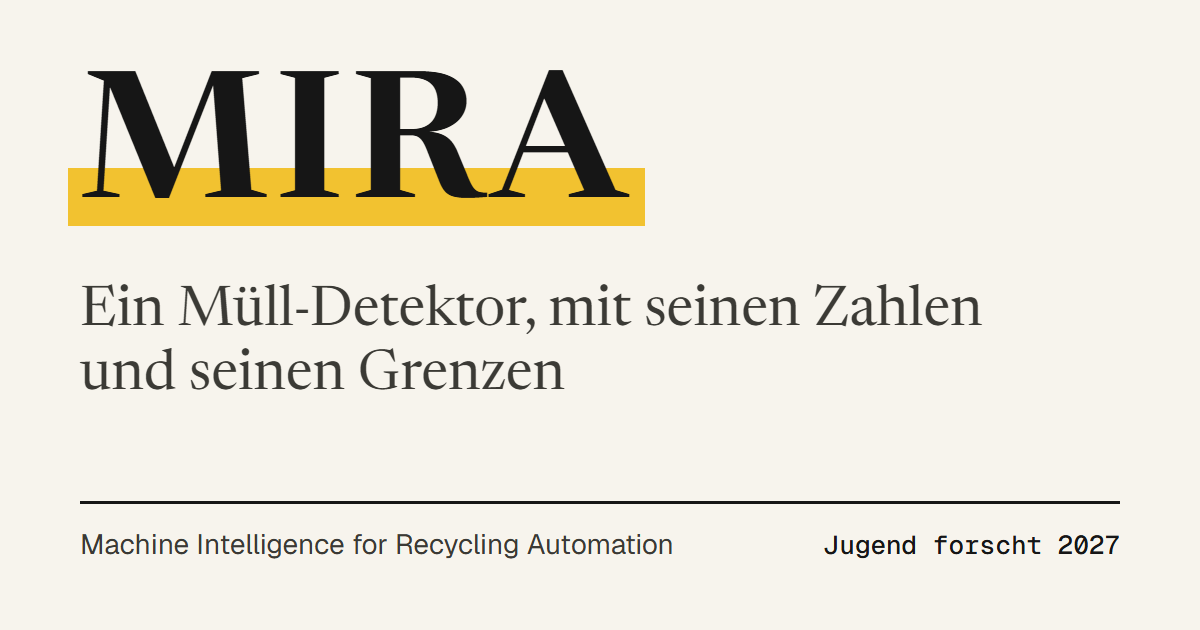
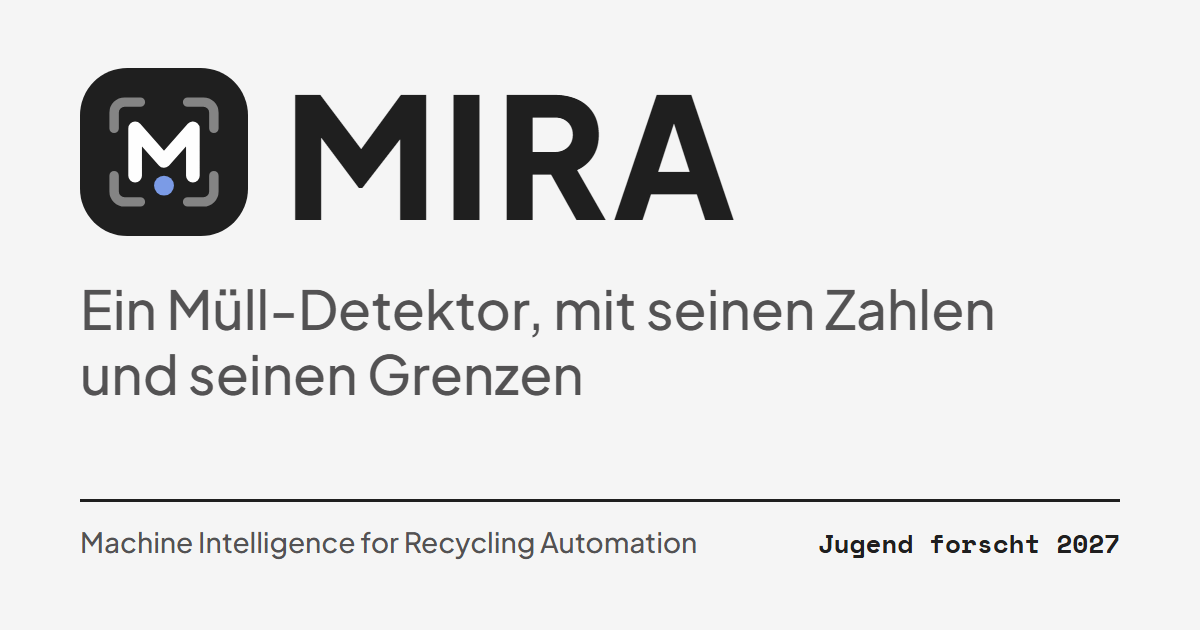
Fix CI (mypy stubs, camera log test), add lap, new share images, prepare 1.1.0

diff --git a/website/scripts/og/og-de.html b/website/scripts/og/og-de.html
@@ -1,0 +1,17 @@
+<!doctype html><html lang="de"><head><meta charset="utf-8">
+<link rel="preconnect" href="https://fonts.googleapis.com"><link rel="preconnect" href="https://fonts.gstatic.com" crossorigin>
+<link href="https://fonts.googleapis.com/css2?family=Plus+Jakarta+Sans:wght@500;700;800&family=Space+Mono:wght@400;700&display=swap" rel="stylesheet">
+<style>
+*{box-sizing:border-box;margin:0}
+html,body{width:1200px;height:630px;background:#f5f5f5;color:#1f1f1f;overflow:hidden}
+body{padding:68px 80px;display:flex;flex-direction:column;justify-content:space-between;font-family:'Plus Jakarta Sans',system-ui,sans-serif}
+.brand{display:flex;align-items:center;gap:36px}
+.brand svg{width:168px;height:168px;flex-shrink:0}
+.word{font-weight:800;font-size:168px;letter-spacing:.03em;line-height:1}
+.tag{margin-top:40px;font-weight:500;font-size:54px;line-height:1.2;color:#535253;max-width:980px}
+.foot{display:flex;justify-content:space-between;align-items:baseline;border-top:3px solid #1f1f1f;padding-top:22px;font-size:28px;color:#535253}
+.foot b{font-family:'Space Mono',ui-monospace,monospace;font-weight:700;font-size:26px;color:#1f1f1f}
+</style></head><body>
+<div><div class="brand"><svg xmlns="http://www.w3.org/2000/svg" viewBox="0 0 32 32"><rect width="32" height="32" rx="9" fill="#1f1f1f"/><path d="M6.5 11.5v-3a2 2 0 0 1 2-2h3M20.5 6.5h3a2 2 0 0 1 2 2v3M25.5 20.5v3a2 2 0 0 1-2 2h-3M11.5 25.5h-3a2 2 0 0 1-2-2v-3" fill="none" stroke="#fefefe" stroke-opacity=".45" stroke-width="1.8" stroke-linecap="round"/><path d="M10.5 20.5v-9l5.5 6.2 5.5-6.2v9" fill="none" stroke="#fefefe" stroke-width="2.6" stroke-linecap="round" stroke-linejoin="round"/><circle cx="16" cy="22.4" r="1.9" fill="#7b9be6"/></svg><span class="word">MIRA</span></div><p class="tag">Ein Müll-Detektor, mit seinen Zahlen und seinen Grenzen</p></div>
+<div class="foot"><span>Machine Intelligence for Recycling Automation</span><b>Jugend forscht 2027</b></div>
+</body></html>

diff --git a/website/scripts/og/og-en.html b/website/scripts/og/og-en.html
@@ -1,0 +1,17 @@
+<!doctype html><html lang="en"><head><meta charset="utf-8">
+<link rel="preconnect" href="https://fonts.googleapis.com"><link rel="preconnect" href="https://fonts.gstatic.com" crossorigin>
+<link href="https://fonts.googleapis.com/css2?family=Plus+Jakarta+Sans:wght@500;700;800&family=Space+Mono:wght@400;700&display=swap" rel="stylesheet">
+<style>
+*{box-sizing:border-box;margin:0}
+html,body{width:1200px;height:630px;background:#f5f5f5;color:#1f1f1f;overflow:hidden}
+body{padding:68px 80px;display:flex;flex-direction:column;justify-content:space-between;font-family:'Plus Jakarta Sans',system-ui,sans-serif}
+.brand{display:flex;align-items:center;gap:36px}
+.brand svg{width:168px;height:168px;flex-shrink:0}
+.word{font-weight:800;font-size:168px;letter-spacing:.03em;line-height:1}
+.tag{margin-top:40px;font-weight:500;font-size:54px;line-height:1.2;color:#535253;max-width:980px}
+.foot{display:flex;justify-content:space-between;align-items:baseline;border-top:3px solid #1f1f1f;padding-top:22px;font-size:28px;color:#535253}
+.foot b{font-family:'Space Mono',ui-monospace,monospace;font-weight:700;font-size:26px;color:#1f1f1f}
+</style></head><body>
+<div><div class="brand"><svg xmlns="http://www.w3.org/2000/svg" viewBox="0 0 32 32"><rect width="32" height="32" rx="9" fill="#1f1f1f"/><path d="M6.5 11.5v-3a2 2 0 0 1 2-2h3M20.5 6.5h3a2 2 0 0 1 2 2v3M25.5 20.5v3a2 2 0 0 1-2 2h-3M11.5 25.5h-3a2 2 0 0 1-2-2v-3" fill="none" stroke="#fefefe" stroke-opacity=".45" stroke-width="1.8" stroke-linecap="round"/><path d="M10.5 20.5v-9l5.5 6.2 5.5-6.2v9" fill="none" stroke="#fefefe" stroke-width="2.6" stroke-linecap="round" stroke-linejoin="round"/><circle cx="16" cy="22.4" r="1.9" fill="#7b9be6"/></svg><span class="word">MIRA</span></div><p class="tag">A waste detector, with its numbers and its limits</p></div>
+<div class="foot"><span>Machine Intelligence for Recycling Automation</span><b>Jugend forscht 2027</b></div>
+</body></html>

diff --git a/tests/test_camera_service.py b/tests/test_camera_service.py
@@ -1,6 +1,7 @@
 # Focused runtime regression tests for the dashboard camera service.
 
 import asyncio
+import logging
 import threading
 from unittest.mock import MagicMock, patch
 
@@ -236,6 +237,16 @@ async def test_stop_waits_for_streaming_read_before_releasing_camera():
 
 @pytest.mark.asyncio
 async def test_stop_is_bounded_when_camera_read_does_not_return(caplog):
+    # `get_logger` turns propagation off, so caplog's root handler only sees this logger when attached directly.
+    service_logger = logging.getLogger("src.dashboard.backend.camera_service")
+    service_logger.addHandler(caplog.handler)
+    try:
+        await _stop_is_bounded_body(caplog)
+    finally:
+        service_logger.removeHandler(caplog.handler)
+
+
+async def _stop_is_bounded_body(caplog):
     read_started = threading.Event()
     allow_test_worker_to_finish = threading.Event()
     camera = MagicMock()

diff --git a/src/version.py b/src/version.py
@@ -1,3 +1,3 @@
 # Package version exposed to the CLI and packaging metadata.
 
-__version__ = "1.0.3"
+__version__ = "1.1.0"

diff --git a/CHANGELOG.md b/CHANGELOG.md
@@ -6,9 +6,28 @@ All notable changes to MIRA are recorded here. The format follows
 
 ## [Unreleased]
 
+## [1.1.0] - 2026-11-25
+
+### Added
+- Dashboard v2: a new interface (Svelte, light theme) with Detect, Sessions,
+  Models, Analytics and Settings. The old dashboard remains at `/legacy`.
+- Sessions: start, name and stop a run, review it, and replay its timeline.
+- Export: session detections as CSV or JSON, and a one-page HTML report.
+- Model compare and benchmark: run two models on the same image, or run
+  `mira benchmark` from the dashboard.
+- Video and batch input: import images, a folder or a video as background jobs
+  with progress and cancel.
+- Hardware history (processor, memory, temperature) and a sorting-arm
+  placeholder API with an event log. No robot is connected; commands are
+  simulated.
+- New MIRA logo.
+- `lap` is now a declared dependency, so object tracking works offline.
+
 ### Changed
 - Package metadata: added PyPI classifiers, Documentation, Issues, Changelog and
   Hugging Face project links, and removed a placeholder author email.
+- The dashboard backend is split into smaller modules and keeps its data in a
+  local SQLite database.
 
 ### Fixed
 - CI is green again: Ruff, formatting and mypy errors are resolved, and tests no
@@ -39,8 +58,9 @@ All notable changes to MIRA are recorded here. The format follows
   and trash, the `mira` CLI, a local dashboard, and dataset, training and
   evaluation tooling.
 
-[Unreleased]: https://github.com/jeremy341/MIRA-AI/compare/v1.0.2...HEAD
-[1.0.3]: https://github.com/jeremy341/MIRA-AI/compare/v1.0.2...HEAD
+[Unreleased]: https://github.com/jeremy341/MIRA-AI/compare/v1.1.0...HEAD
+[1.1.0]: https://github.com/jeremy341/MIRA-AI/compare/v1.0.3...v1.1.0
+[1.0.3]: https://github.com/jeremy341/MIRA-AI/compare/v1.0.2...v1.0.3
 [1.0.2]: https://github.com/jeremy341/MIRA-AI/releases/tag/v1.0.2
 [1.0.1]: https://github.com/jeremy341/MIRA-AI/releases/tag/v1.0.1
 [1.0.0]: https://github.com/jeremy341/MIRA-AI/releases/tag/v1.0.0

diff --git a/website/README.md b/website/README.md
@@ -115,7 +115,7 @@ The language switch keeps the URL `#hash` (read from `location` on the client, u
 
 ## Metadata, sitemap, robots
 
-Every page renders `<Seo lang path title description />` once. It is the only place that writes title, description, canonical, hreflang (`en`, `de`, `x-default`), Open Graph (type, site name, title, description, url, locale, image with size and alt) and Twitter card tags, from `pageMetadata()`. Home keeps its title, other pages get ` | MIRA`. Share cards are `static/og-en.png` and `og-de.png` (1200 x 630); the HTML sources for them are in `../website-next/scripts/og/`. `SITE_URL` in `src/lib/site.ts` is the single place for the domain. `sitemap.xml` and `robots.txt` are prerendered from `src/lib/sitemap-data.ts`.
+Every page renders `<Seo lang path title description />` once. It is the only place that writes title, description, canonical, hreflang (`en`, `de`, `x-default`), Open Graph (type, site name, title, description, url, locale, image with size and alt) and Twitter card tags, from `pageMetadata()`. Home keeps its title, other pages get ` | MIRA`. Share cards are `static/og-en.png` and `og-de.png` (1200 x 630); the HTML sources for them are in `scripts/og/` (render each at 1200 x 630 in a browser). `SITE_URL` in `src/lib/site.ts` is the single place for the domain. `sitemap.xml` and `robots.txt` are prerendered from `src/lib/sitemap-data.ts`.
 
 ## 404
 
